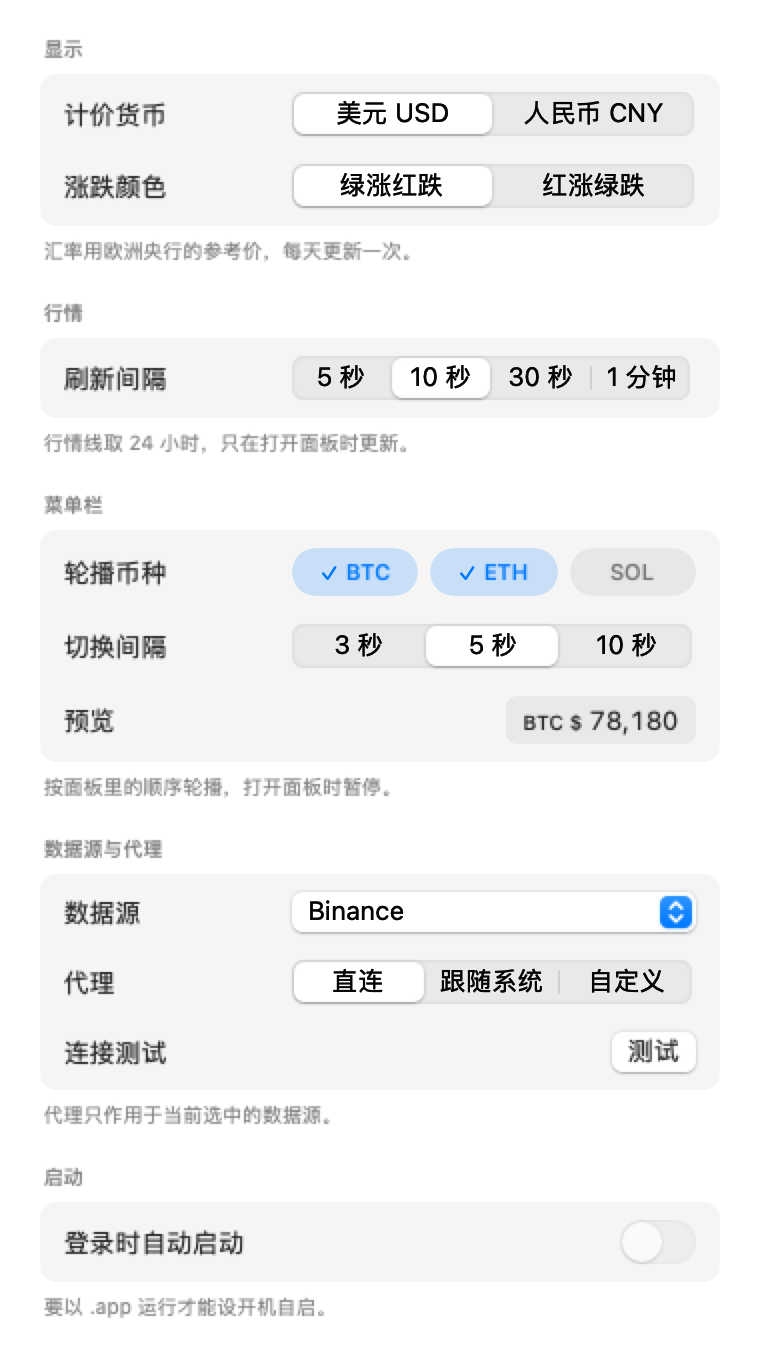
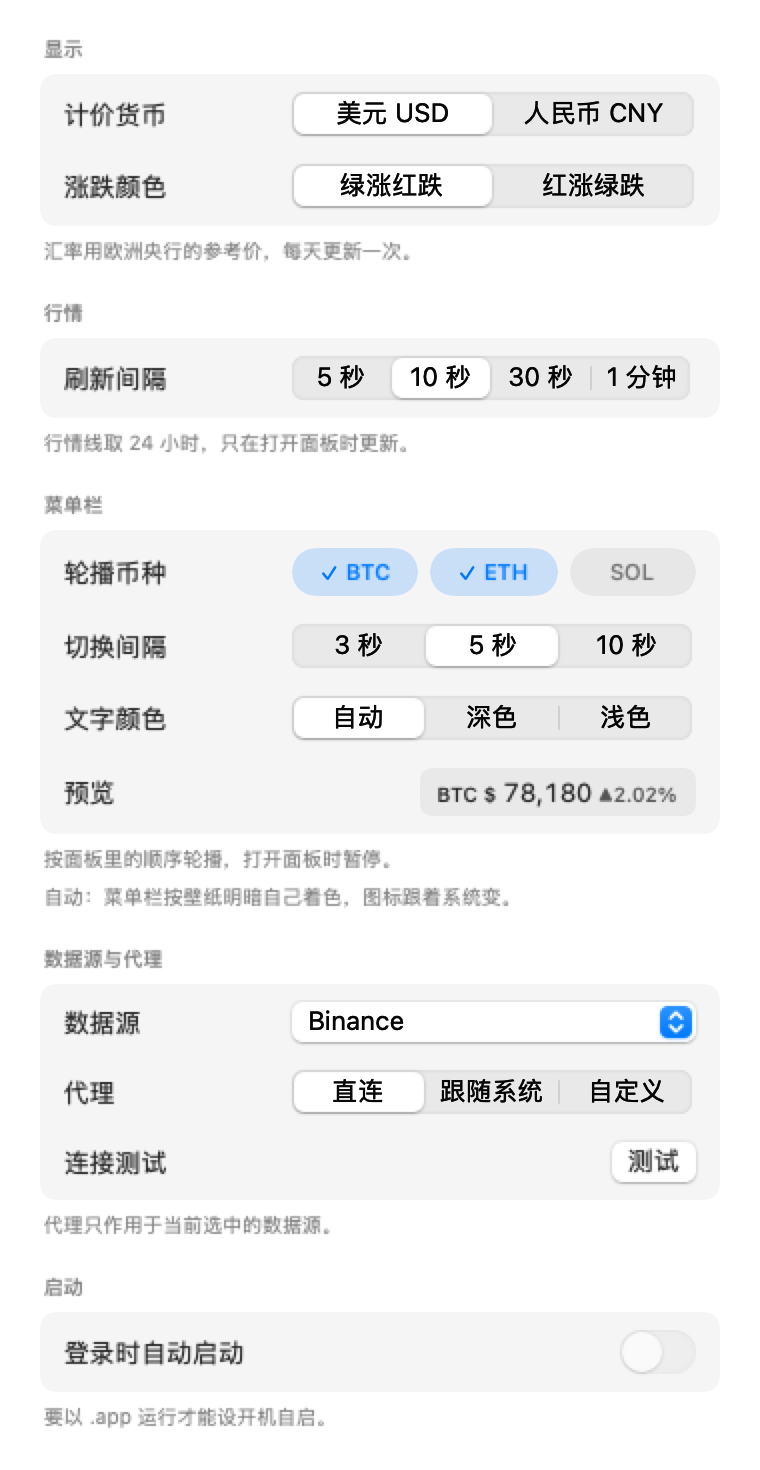
菜单栏文字颜色可选：自动、深色、浅色
菜单栏是透明的，背后就是壁纸。template image 只能交给系统着色，它按壁纸明暗
判断这一项用深色还是浅色字——亮天空的壁纸会得到白字，读起来吃力，而用户没有
办法改。设置里给三档：自动仍然走 template，深色与浅色自己指定颜色，图片不再
是 template，代价是不再随系统明暗自动反转。

设置页的预览按选择换底色，否则浅色字画在白卡片上什么也看不见。

同时更新 README 与产品页，并按新版设置窗口重出截图。

diff --git a/Sources/PriceBar/MenuBarPrice.swift b/Sources/PriceBar/MenuBarPrice.swift
@@ -27,10 +27,23 @@ enum MenuBarPrice {
         let change: String
     }
 
-    static func attributed(_ label: Label) -> NSAttributedString {
+    /// The colour to draw in, or nil to keep the template.
+    ///
+    /// A template image takes the menu bar's tint and inverts with light and
+    /// dark by itself, which is what "自动" means. A colour of its own gives
+    /// up that adaptation on purpose: it is for a menu bar that reads as light
+    /// while the system says dark, or the other way round.
+    static func tint(_ choice: MenuBarTint) -> NSColor? {
+        switch choice {
+        case .automatic: nil
+        case .dark: .black
+        case .light: .white
+        }
+    }
+
+    static func attributed(_ label: Label, colour: NSColor = .black) -> NSAttributedString {
         let smallFont = NSFont.systemFont(ofSize: 10, weight: .medium)
         let digitsFont = NSFont.monospacedDigitSystemFont(ofSize: 13, weight: .regular)
-        let colour = NSColor.black
 
         let text = NSMutableAttributedString(
             string: label.coin + " ",
@@ -76,15 +89,15 @@ enum MenuBarPrice {
 
     /// `width` is the room the label has: the widest label of the coins the
     /// menu bar shows, so that the item never changes size between them.
-    static func image(_ label: Label, width: CGFloat) -> NSImage {
-        let text = attributed(label)
+    static func image(_ label: Label, width: CGFloat, tint: NSColor? = nil) -> NSImage {
+        let text = attributed(label, colour: tint ?? .black)
         let size = text.size()
         let canvas = NSSize(width: contentWidth(text, width), height: ceil(size.height))
         let image = NSImage(size: canvas, flipped: false) { _ in
             text.draw(at: NSPoint(x: 0.5, y: 0))
             return true
         }
-        image.isTemplate = true
+        image.isTemplate = tint == nil
         return image
     }
 
@@ -96,10 +109,12 @@ enum MenuBarPrice {
         from old: Label,
         to new: Label,
         width: CGFloat,
-        progress: CGFloat
+        progress: CGFloat,
+        tint: NSColor? = nil
     ) -> NSImage {
-        let out = attributed(old)
-        let into = attributed(new)
+        let colour = tint ?? .black
+        let out = attributed(old, colour: colour)
+        let into = attributed(new, colour: colour)
         let lift = ceil(max(out.size().height, into.size().height))
         let canvas = NSSize(
             width: contentWidth(out.size().width > into.size().width ? out : into, width),
@@ -114,7 +129,7 @@ enum MenuBarPrice {
             into.draw(at: NSPoint(x: 0.5, y: travel - lift))
             return true
         }
-        image.isTemplate = true
+        image.isTemplate = tint == nil
         return image
     }
 
@@ -131,7 +146,7 @@ enum MenuBarPrice {
 
     @MainActor static func image(for store: Store) -> NSImage? {
         guard let label = label(for: store) else { return nil }
-        return image(label, width: store.menuBarWidth)
+        return image(label, width: store.menuBarWidth, tint: tint(store.menuBarTint))
     }
 
     /// Half a point of headroom on the left: the glyphs of a font's bounding

diff --git a/Sources/PriceBarCore/AppSettings.swift b/Sources/PriceBarCore/AppSettings.swift
@@ -31,6 +31,25 @@ public enum ChangeColors: String, Codable, CaseIterable, Sendable {
     }
 }
 
+/// What colour the menu bar writes the price in.
+///
+/// The label is drawn as a template image, which takes the menu bar's own
+/// tint and so follows light and dark by itself. But the menu bar is
+/// translucent now: over a bright wallpaper the tint it picks can sit on a
+/// light strip and be hard to read. These are the way out — draw the label
+/// dark, or light, and stop following.
+public enum MenuBarTint: String, Codable, CaseIterable, Sendable {
+    case automatic, dark, light
+
+    public var label: String {
+        switch self {
+        case .automatic: "自动"
+        case .dark: "深色"
+        case .light: "浅色"
+        }
+    }
+}
+
 /// Everything the app remembers between launches.
 public struct AppSettings: Codable, Equatable, Sendable {
     public var coins: [String] = ["BTC", "ETH"]
@@ -45,6 +64,8 @@ public struct AppSettings: Codable, Equatable, Sendable {
     public var interval: Double = 10
     /// Which color means a rise.
     public var changeColors: ChangeColors = .greenUp
+    /// What colour the menu bar writes the price in.
+    public var menuBarTint: MenuBarTint = .automatic
     /// Which exchange the prices come from.
     public var source: MarketSource = .binance
     /// How the app reaches that exchange.
@@ -56,6 +77,7 @@ public struct AppSettings: Codable, Equatable, Sendable {
 
     private enum CodingKeys: String, CodingKey {
         case coins, menuBarCoins, rotateInterval, currency, interval, changeColors
+        case menuBarTint
         case source, proxyMode, proxyAddress, rules
         /// Written by versions that had one coin on the menu bar.
         case primary
@@ -69,6 +91,7 @@ public struct AppSettings: Codable, Equatable, Sendable {
         try container.encode(currency, forKey: .currency)
         try container.encode(interval, forKey: .interval)
         try container.encode(changeColors, forKey: .changeColors)
+        try container.encode(menuBarTint, forKey: .menuBarTint)
         try container.encode(source, forKey: .source)
         try container.encode(proxyMode, forKey: .proxyMode)
         try container.encode(proxyAddress, forKey: .proxyAddress)
@@ -86,6 +109,7 @@ public struct AppSettings: Codable, Equatable, Sendable {
         currency = (try? container.decode(Currency.self, forKey: .currency)) ?? defaults.currency
         interval = (try? container.decode(Double.self, forKey: .interval)) ?? defaults.interval
         changeColors = (try? container.decode(ChangeColors.self, forKey: .changeColors)) ?? defaults.changeColors
+        menuBarTint = (try? container.decode(MenuBarTint.self, forKey: .menuBarTint)) ?? defaults.menuBarTint
         source = (try? container.decode(MarketSource.self, forKey: .source)) ?? defaults.source
         proxyMode = (try? container.decode(ProxyMode.self, forKey: .proxyMode)) ?? defaults.proxyMode
         proxyAddress = (try? container.decode(String.self, forKey: .proxyAddress)) ?? defaults.proxyAddress

diff --git a/Sources/PriceBar/StatusItem.swift b/Sources/PriceBar/StatusItem.swift
@@ -23,6 +23,10 @@ final class StatusItem: NSObject, NSPopoverDelegate {
     /// from a change of price.
     private var showing: MenuBarPrice.Label?
 
+    /// The colour the label is drawn in, or nil to keep it a template image
+    /// and let the menu bar tint it.
+    private var tint: NSColor? { MenuBarPrice.tint(store.menuBarTint) }
+
     init(store: Store) {
         self.store = store
         item = NSStatusBar.system.statusItem(withLength: NSStatusItem.variableLength)
@@ -75,7 +79,7 @@ final class StatusItem: NSObject, NSPopoverDelegate {
         else {
             scroll?.invalidate()
             scroll = nil
-            item.button?.image = MenuBarPrice.image(label, width: width)
+            item.button?.image = MenuBarPrice.image(label, width: width, tint: tint)
             return
         }
         roll(from: previous, to: label, width: width)
@@ -112,7 +116,7 @@ final class StatusItem: NSObject, NSPopoverDelegate {
         guard elapsed < 1 else {
             scroll?.invalidate()
             scroll = nil
-            item.button?.image = MenuBarPrice.image(new, width: width)
+            item.button?.image = MenuBarPrice.image(new, width: width, tint: tint)
             return
         }
         let eased = 1 - pow(1 - elapsed, 3)
@@ -120,7 +124,8 @@ final class StatusItem: NSObject, NSPopoverDelegate {
             from: old,
             to: new,
             width: width,
-            progress: CGFloat(eased)
+            progress: CGFloat(eased),
+            tint: tint
         )
     }
 
@@ -132,6 +137,7 @@ final class StatusItem: NSObject, NSPopoverDelegate {
             _ = store.menuBarQuote
             _ = store.menuBarWidth
             _ = store.currency
+            _ = store.menuBarTint
         } onChange: { [weak self] in
             // The change is still being written when this is called, so the
             // redraw waits for the next turn of the run loop.
@@ -198,6 +204,11 @@ final class StatusItem: NSObject, NSPopoverDelegate {
 
         guard let button = item.button else { return }
         if popover.isShown { popover.performClose(nil) }
+
+        // Nothing is drawn behind the item while its menu is up — the menu
+        // bar is transparent, and a status item's own button is not filled in
+        // — so a label in a colour of its own can stay as it is. Inverting it
+        // here made black text white over the wallpaper, which read worse.
         // Popped up at the item's bottom edge, which is where the system's
         // own menu bar items put theirs. The app is brought forward first:
         // a menu is drawn only for the active app, and the item can be

diff --git a/Sources/PriceBar/SettingsView.swift b/Sources/PriceBar/SettingsView.swift
@@ -101,6 +101,19 @@ struct SettingsView: View {
                     .frame(width: 202)
                     .disabled(store.menuBarCoins.count < 2)
                 }
+                row("文字颜色") {
+                    Picker("", selection: Binding(
+                        get: { store.menuBarTint },
+                        set: { store.menuBarTint = $0 }
+                    )) {
+                        ForEach(MenuBarTint.allCases, id: \.self) { tint in
+                            Text(tint.label).tag(tint)
+                        }
+                    }
+                    .pickerStyle(.segmented)
+                    .labelsHidden()
+                    .frame(width: 202)
+                }
                 row("预览") {
                     preview
                 }
@@ -111,6 +124,11 @@ struct SettingsView: View {
                     noteText("勾选两个以上币种，菜单栏才开始轮播。")
                 } else {
                     noteText("按面板里的顺序轮播，打开面板时暂停。")
+                }
+                if store.menuBarTint == .automatic {
+                    noteText("自动：菜单栏按壁纸明暗自己着色，图标跟着系统变。")
+                } else {
+                    noteText("固定用\(store.menuBarTint.label)，不随下次换壁纸变化。")
                 }
             }
 
@@ -259,7 +277,7 @@ struct SettingsView: View {
         HStack(spacing: 4) {
             if let image = MenuBarPrice.image(for: store) {
                 Image(nsImage: image)
-                    .renderingMode(.template)
+                    .renderingMode(store.menuBarTint == .automatic ? .template : .original)
                     .foregroundStyle(.primary)
             } else {
                 Text("—")
@@ -269,7 +287,18 @@ struct SettingsView: View {
         }
         .padding(.horizontal, 8)
         .padding(.vertical, 4)
-        .background(.quaternary.opacity(0.5), in: .rect(cornerRadius: 6))
+        .background(backdrop, in: .rect(cornerRadius: 6))
+    }
+
+    /// The swatch behind the preview. A label drawn in a colour of its own
+    /// needs the menu bar it was chosen for behind it, or the light one would
+    /// be white on white and say nothing.
+    private var backdrop: AnyShapeStyle {
+        switch store.menuBarTint {
+        case .automatic: AnyShapeStyle(.quaternary.opacity(0.5))
+        case .dark: AnyShapeStyle(Color.white.opacity(0.9))
+        case .light: AnyShapeStyle(Color.black.opacity(0.75))
+        }
     }
 
     /// Writes the typed address down half a second after the typing stops,

diff --git a/Tests/PriceBarCoreTests/PriceBarCoreTests.swift b/Tests/PriceBarCoreTests/PriceBarCoreTests.swift
@@ -255,6 +255,24 @@ struct SettingsFileTests {
         #expect(again.changeColors == .redUp)
     }
 
+    @Test("旧设置文件没有文字颜色字段时按自动")
+    func menuBarTintDefaults() throws {
+        let json = #"{"coins":["BTC"],"primary":"BTC","currency":"USD","interval":10,"rules":[]}"#
+        let settings = try JSONDecoder().decode(AppSettings.self, from: Data(json.utf8))
+        #expect(settings.menuBarTint == .automatic)
+        // And a chosen colour survives a round trip.
+        var chosen = settings
+        chosen.menuBarTint = .light
+        let again = try JSONDecoder().decode(
+            AppSettings.self, from: JSONEncoder().encode(chosen))
+        #expect(again.menuBarTint == .light)
+        // A colour it does not know falls back rather than losing the file.
+        let odd = #"{"coins":["BTC"],"currency":"USD","menuBarTint":"purple"}"#
+        let read = try JSONDecoder().decode(AppSettings.self, from: Data(odd.utf8))
+        #expect(read.menuBarTint == .automatic)
+        #expect(read.coins == ["BTC"])
+    }
+
     @Test("一个读不懂的字段不会带走其余设置")
     func anUnreadableFieldKeepsTheRest() throws {
         // "usd" is not a Currency the app knows; the coins and the rule

diff --git a/docs/index.html b/docs/index.html
@@ -482,7 +482,7 @@
     <h2>设置</h2>
     <div class="two">
       <figure>
-        <img class="shot" src="settings.png" width="760" height="1360"
+        <img class="shot" src="settings.png" width="760" height="1470"
              alt="PriceBar 设置窗口：显示、行情、菜单栏、数据源与代理、启动五组选项">
       </figure>
       <div>
@@ -492,7 +492,8 @@
         </p>
         <p style="font-size:14.5px;color:var(--muted);line-height:1.75;margin:0 0 14px">
           菜单栏那一组里勾选要轮播的币种，选间隔，下面就是实时的预览行——
-          按当前的间隔真的在轮播，快慢一眼看得出。
+          按当前的间隔真的在轮播，快慢一眼看得出。文字颜色也能定：自动跟着系统，
+          或者自己指定深浅，免得白字压在亮壁纸上。
         </p>
         <p style="font-size:14.5px;color:var(--muted);line-height:1.75;margin:0">
           换数据源或代理之前可以先「测试」：它会告诉你连没连上、用了多少毫秒、

diff --git a/Sources/PriceBar/Store.swift b/Sources/PriceBar/Store.swift
@@ -74,6 +74,11 @@ final class Store {
         set { apply { $0.changeColors = newValue } }
     }
 
+    var menuBarTint: MenuBarTint {
+        get { settings.menuBarTint }
+        set { apply { $0.menuBarTint = newValue } }
+    }
+
     var source: MarketSource {
         get { settings.source }
         set { apply { $0.source = newValue } }

diff --git a/README.md b/README.md
@@ -113,6 +113,20 @@ app 不知道你从哪儿来，就让你自己选。默认绿涨红跌。
   但宽度仍按涨跌幅预留（`MenuBarPrice.widthReserve`），否则币种一贴近零点，
   菜单栏图标就缩四十来点，旁边的图标全跟着挪。
 
+## 关于菜单栏的文字颜色
+
+菜单栏现在是透明的，背后就是壁纸。自动着色时，系统按壁纸的明暗决定这一项用深色还是浅色
+文字——这个判断有时并不准：一张亮天空的壁纸，它会给出白字，读起来就吃力。
+
+设置里给了「自动 / 深色 / 浅色」三档：
+
+- **自动**（默认）：画成 template image，交给菜单栏着色，亮暗模式切换时跟着变。
+- **深色 / 浅色**：自己指定，图片不再是 template，代价是不再随系统明暗自动反转。
+
+深色是黑色的同义词，浅色是白色——它们说的是文字本身，不是背景。
+
+设置页的预览会按选择换底色：选了浅色，预览就放在深色块上，否则白字在白卡片上是看不见的。
+
 ## 关于菜单栏的字体
 
 菜单栏会把标题按自己的字体、自己的字号重新渲染，标签里指定的字体**会被忽略**。
@@ -222,6 +236,7 @@ Binance 内部的两个域名互为备份（同一份报价），这是唯一的
   "proxyMode": "direct",
   "proxyAddress": "",
   "changeColors": "greenUp",
+  "menuBarTint": "automatic",
   "rules": [
     {
       "coin": "BTC",
